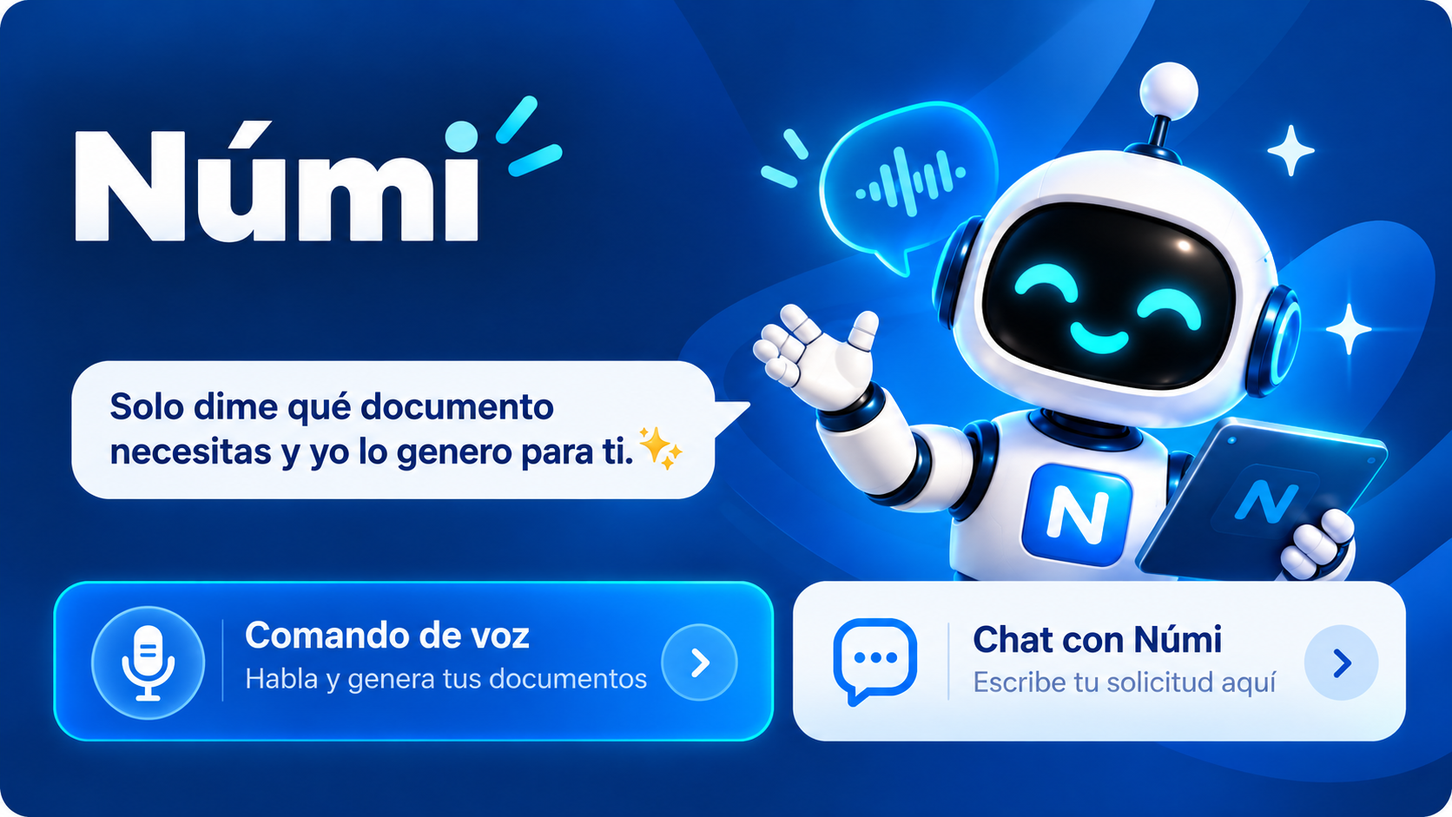
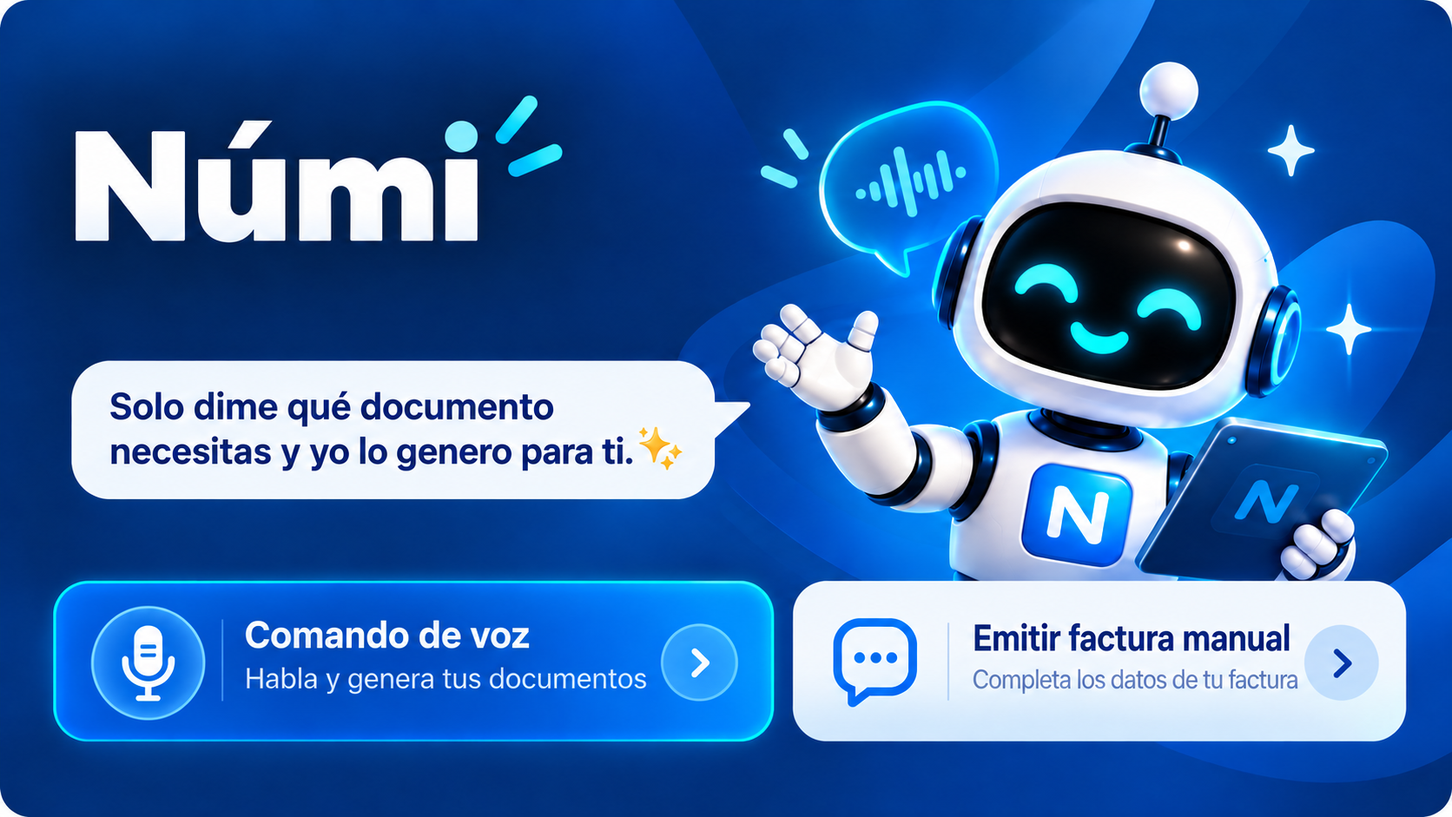
cambios Finales baby

diff --git a/src/components/bot/EfactBotScreen.tsx b/src/components/bot/EfactBotScreen.tsx
@@ -30,7 +30,7 @@ export const botVoiceRecognitionAvailable = voiceRecognitionAvailable;
 const speechContext = [
   'Númi', 'e-fact', 'Jordy Prado', 'Jordy', 'Prado', 'factura', 'facturación', 'RUC', 'cédula', 'identificación',
   'cliente', 'proveedor', 'producto', 'servicio', 'servicios prestados', 'cantidad', 'precio', 'descuento', 'IVA', 'subtotal', 'impuesto', 'total',
-  'retención', 'guía de remisión', 'nota de crédito', 'nota de débito', 'emitir', 'anular', 'cancelar', 'confirmar', 'confirmado',
+  'retención', 'guía de remisión', 'nota de crédito', 'nota de débito', 'emitir', 'anular', 'cancelar', 'confirmar', 'confirmo', 'confirmado', 'autorizo', 'acepto', 'apruebo', 'adelante', 'procede',
   'contado', 'crédito', 'efectivo', 'transferencia', 'tarjeta', 'débito', 'cheque', 'banco', 'plazo', 'vencimiento',
   'modificar IVA', 'cambiar IVA', 'IVA cero', 'IVA quince', 'quitar IVA', 'aplicar IVA',
   'modificar precio', 'cambiar precio', 'subir precio', 'bajar precio', 'precio unitario',
@@ -290,23 +290,6 @@ export function EfactBotScreen({
   const abortBotRequest = () => {
     botRequestAbortRef.current?.abort();
     botRequestAbortRef.current = null;
-  };
-
-  const cancelPendingRequest = () => {
-    requestGenerationRef.current += 1;
-    queuedRequestsRef.current = [];
-    abortBotRequest();
-    sendingRef.current = false;
-    setSending(false);
-    setThinkingRequest('');
-    setRetryRequest(null);
-    setError('');
-    clearVoiceTimers();
-    disableHandsFreeState();
-    void stopBotSpeech();
-    if (voiceRecognitionStarted.current) ExpoSpeechRecognitionModule?.abort();
-    setListening(false);
-    transitionVoice('idle', null);
   };
 
   const createMessageId = (role: BotMessage['role']) => `${role}-${Date.now()}-${messageSequenceRef.current += 1}`;
@@ -571,7 +554,7 @@ export function EfactBotScreen({
             transitionVoice('processing', 'processing');
             void send('cancelar', 'voz');
           } else {
-            const voiceMessage = 'Para ejecutar esta operación di “confirmado” o pulsa el botón Confirmar.';
+            const voiceMessage = 'Para ejecutar esta operación di “confirmo”, “sí”, “dale” o “autorizo”.';
             setVoiceResponse(voiceMessage);
             transitionVoice('awaitingConfirmation', 'response');
             void speakCurrentBotText(voiceMessage);
@@ -796,7 +779,7 @@ export function EfactBotScreen({
       voicePermissionGrantedRef.current = true;
       if (!voiceHolding.current) {
         voiceShouldSubmit.current = false;
-        transitionVoice('idle', null);
+        transitionVoice('idle', handsFreeEnabledRef.current ? 'response' : null);
         return;
       }
       if (!ExpoSpeechRecognitionModule.isRecognitionAvailable()) {
@@ -819,7 +802,7 @@ export function EfactBotScreen({
       }
       if (!voiceHolding.current) {
         voiceShouldSubmit.current = false;
-        transitionVoice('idle', null);
+        transitionVoice('idle', handsFreeEnabledRef.current ? 'response' : null);
         return;
       }
       // Marcarla antes de llamar al módulo evita que una suelta durante la
@@ -867,11 +850,6 @@ export function EfactBotScreen({
       { label: 'Validar documento', command: '¿Cómo valido una firma electrónica?', icon: 'file-check-outline' as const },
       { label: 'Nueva solicitud', command: '¿Qué necesito para solicitar una firma electrónica?', icon: 'file-plus-outline' as const },
     ]
-    : Boolean(pendingOperation || (requiresConfirmation && invoiceState === 'EsperandoConfirmacion'))
-    ? [
-      { label: pendingOperation ? 'Confirmar operación' : 'Emitir factura', command: pendingOperation ? 'confirmar' : 'emitir', icon: 'check' as const },
-      { label: pendingOperation ? 'Cancelar operación' : 'Cancelar emisión', command: 'cancelar', icon: 'close' as const },
-    ]
     : invoiceDraft?.items?.length
       ? [
         { label: 'Agregar producto', command: 'Agrega otro producto', icon: 'plus' as const },
@@ -889,7 +867,6 @@ export function EfactBotScreen({
           { label: 'Consultar facturas', command: 'Muéstrame mis facturas', icon: 'file-document-outline' as const },
           { label: 'Ver cartera', command: 'Muéstrame mis cuentas por cobrar', icon: 'cash-multiple' as const },
         ];
-
   const stopVoiceInput = () => {
     clearVoiceTimers();
     voiceHolding.current = false;
@@ -952,6 +929,7 @@ export function EfactBotScreen({
   };
 
   const cancelVoiceInput = () => {
+    if (sendingRef.current) return;
     requestGenerationRef.current += 1;
     abortBotRequest();
     sendingRef.current = false;
@@ -1065,7 +1043,7 @@ export function EfactBotScreen({
           <Pressable accessibilityRole="button" accessibilityLabel={speechMuted ? 'Activar lectura en voz alta' : 'Silenciar lectura en voz alta'} onPress={toggleSpeechMuted} hitSlop={8} style={styles.botHeaderActionButton}>
             <MaterialCommunityIcons name={speechMuted ? 'volume-off' : 'volume-high'} size={19} color="#FFFFFF" />
           </Pressable>
-          <Pressable accessibilityRole="button" accessibilityLabel="Volver al inicio" onPress={() => onNavigate?.('/dashboard')} hitSlop={8} style={styles.botHeaderActionButton}>
+          <Pressable accessibilityRole="button" accessibilityLabel="Volver al inicio" onPress={() => onNavigate?.('/dashboard')} hitSlop={8} disabled={sending} style={[styles.botHeaderActionButton, sending && styles.botHeaderActionDisabled]}>
              <MaterialCommunityIcons name="home-outline" size={19} color="#FFFFFF" />
           </Pressable>
         </View>
@@ -1150,9 +1128,6 @@ export function EfactBotScreen({
             <Image source={require('../../../assets/numi-chat-avatar.jpg')} style={styles.botMessageAvatar} />
             <NumiThinkingIndicator request={thinkingRequest} />
           </View>
-          <Pressable accessibilityRole="button" accessibilityLabel="Cancelar solicitud" onPress={cancelPendingRequest}>
-            <Text style={styles.botRetryText}>Cancelar</Text>
-          </Pressable>
         </View>
       ) : null}
       {voiceTranscript && !voiceOverlayState ? <View style={styles.botVoiceTranscript}><MaterialCommunityIcons name="waveform" size={16} color="#0878C9" /><Text style={styles.botVoiceTranscriptText}>{voiceTranscript}</Text></View> : null}
@@ -1270,13 +1245,15 @@ function VoiceInteractionOverlay({ state, transcript, response, draft, missing, 
     return () => animation.stop();
   }, [pulse, reduceMotion, state]);
 
-  const title = state === 'listening' ? 'Númi está escuchando' : state === 'review' ? 'Revisa lo que entendí' : state === 'processing' ? 'Procesando comando' : confirmationExpiryInvalid ? 'Confirmación no disponible' : confirmationExpired ? 'Confirmación vencida' : needsConfirmation ? 'Revisa antes de continuar' : 'Númi respondió';
-  const subtitle = state === 'listening' ? 'Mantén presionado el micrófono; suéltalo para enviar.' : state === 'review' ? 'Corrige cualquier palabra antes de enviarla.' : state === 'processing' ? 'Estoy revisando tus datos y preparando el siguiente paso.' : confirmationExpiryInvalid ? 'La operación no tiene una vigencia válida. Solicítala nuevamente.' : confirmationExpired ? 'La operación no se ejecutó. Solicítala nuevamente para generar una nueva confirmación.' : needsConfirmation ? 'Mantén presionado el micrófono para confirmar.' : handsFreeEnabled ? 'Mantén presionado el micrófono para hablar y suéltalo para enviar.' : 'Esta respuesta también se guardó en el chat.';
+  const invoiceEmissionProcessing = state === 'processing' && (Boolean(pendingOperation) || requiresConfirmation || invoiceState === 'EsperandoConfirmacion');
+  const emissionDocument = getEmissionDocumentLabel(pendingOperation?.tipo);
+  const title = state === 'listening' ? 'Númi está escuchando' : state === 'review' ? 'Revisa lo que entendí' : state === 'processing' ? (invoiceEmissionProcessing ? `Emitiendo ${emissionDocument}` : 'Procesando comando') : confirmationExpiryInvalid ? 'Confirmación no disponible' : confirmationExpired ? 'Confirmación vencida' : needsConfirmation ? 'Revisa antes de continuar' : 'Númi respondió';
+  const subtitle = state === 'listening' ? 'Mantén presionado el micrófono; suéltalo para enviar.' : state === 'review' ? 'Corrige cualquier palabra antes de enviarla.' : state === 'processing' ? (invoiceEmissionProcessing ? `Espera mientras guardo ${emissionDocument} y la envío al SRI. No cierres esta ventana.` : 'Estoy revisando tus datos y preparando el siguiente paso.') : confirmationExpiryInvalid ? 'La operación no tiene una vigencia válida. Solicítala nuevamente.' : confirmationExpired ? 'La operación no se ejecutó. Solicítala nuevamente para generar una nueva confirmación.' : needsConfirmation ? 'Mantén presionado el micrófono para confirmar.' : handsFreeEnabled ? 'Mantén presionado el micrófono para hablar y suéltalo para enviar.' : 'Esta respuesta también se guardó en el chat.';
   const icon = state === 'listening' ? 'microphone' : state === 'review' ? 'text-box-check-outline' : state === 'processing' ? 'loading' : confirmationBlocked ? 'alert-circle-outline' : needsConfirmation ? 'shield-check-outline' : 'check-circle-outline';
 
   return (
     <View style={styles.botVoiceOverlayLayer} pointerEvents="box-none">
-      <Pressable accessibilityRole="button" accessibilityLabel="Cerrar respuesta de Númi" style={styles.botVoiceOverlayBackdrop} onPress={onCancel} />
+      <Pressable accessibilityRole="button" accessibilityLabel="Cerrar respuesta de Númi" style={styles.botVoiceOverlayBackdrop} onPress={() => undefined} />
       <KeyboardAvoidingView behavior={Platform.OS === 'ios' ? 'padding' : 'height'} keyboardVerticalOffset={Platform.OS === 'ios' ? 8 : 0} style={styles.botVoiceOverlayKeyboardAvoider}>
       <View style={[styles.botVoiceOverlayCard, { maxHeight: Math.min(viewportHeight * 0.58, 520), width: Math.max(0, Math.min(viewportWidth - 24, 390)) }]}>
        <View style={styles.botVoiceOverlayHandle} />
@@ -1287,6 +1264,9 @@ function VoiceInteractionOverlay({ state, transcript, response, draft, missing, 
             <Text style={styles.botVoiceOverlayTitle}>{title}</Text>
             <Text style={styles.botVoiceOverlaySubtitle}>{subtitle}</Text>
           </View>
+          <Pressable accessibilityRole="button" accessibilityLabel="Cerrar respuesta de Númi" hitSlop={8} disabled={state === 'processing'} onPress={onCancel} style={{ alignItems: 'center', justifyContent: 'center', padding: 2 }}>
+            <MaterialCommunityIcons name="close" size={20} color={state === 'processing' ? '#B8C7D2' : '#5C748A'} />
+          </Pressable>
         </View>
         {handsFreeEnabled && state !== 'processing' ? (
           <Pressable accessibilityRole="button" accessibilityLabel={needsConfirmation ? 'Mantén presionado el micrófono para confirmar' : 'Mantén presionado el micrófono para hablar y suelta para enviar'} style={{ alignSelf: 'center' }} onPressIn={needsConfirmation ? onStartConfirmationVoice : onStartVoice} onPressOut={onStopVoice}>
@@ -1315,32 +1295,20 @@ function VoiceInteractionOverlay({ state, transcript, response, draft, missing, 
         {state === 'processing' ? (
           <View style={styles.botVoiceOverlayProcessingStatus}>
             <ActivityIndicator size="small" color="#0878C9" />
-            <Text style={styles.botVoiceOverlayProcessingText}>Procesando tu orden…</Text>
+            <Text style={styles.botVoiceOverlayProcessingText}>{invoiceEmissionProcessing ? `Espera: guardando ${emissionDocument} y enviándola al SRI…` : 'Procesando tu orden…'}</Text>
           </View>
         ) : null}
         {state === 'response' ? <Text style={styles.botVoiceOverlayResponse}>{response}</Text> : null}
         {pendingOperation && state === 'response' && !showWorkflow ? <View style={styles.botVoiceOverlayOperation}><Text style={styles.botVoiceOverlayOperationLabel}>Operación pendiente</Text><Text style={styles.botVoiceOverlayOperationText}>{pendingOperation.resumen || 'Operación que requiere confirmación'}</Text></View> : null}
-        {showWorkflow && state === 'response' ? <BotInvoiceWorkflowCard draft={draft} missing={missing} requiresConfirmation={requiresConfirmation} state={invoiceState} progress={progress} configurationRoutes={configurationRoutes} reduceMotion={reduceMotion} stale={stale} selectionOptions={selectionOptions} pendingOperation={pendingOperation} sending={false} showActions={false} onNavigate={onNavigate} onCommand={onCommand} /> : null}
+        {showWorkflow && state === 'response' ? <BotInvoiceWorkflowCard draft={draft} missing={missing} requiresConfirmation={requiresConfirmation} state={invoiceState} progress={progress} configurationRoutes={configurationRoutes} reduceMotion={reduceMotion} stale={stale} selectionOptions={selectionOptions} pendingOperation={pendingOperation} sending={false} onNavigate={onNavigate} onCommand={onCommand} /> : null}
         {state === 'review' ? (
           <>
             <View style={styles.botVoiceOverlayActions}>
-              <Pressable style={styles.botVoiceOverlayCancelButton} onPress={onCancel}><Text style={styles.botVoiceOverlayCancelText}>Cancelar</Text></Pressable>
               <Pressable style={[styles.botVoiceOverlayConfirmButton, !transcript.trim() && styles.botVoiceOverlayConfirmButtonDisabled]} onPress={onReviewSend} disabled={!transcript.trim()}><MaterialCommunityIcons name="send" size={16} color="#FFFFFF" /><Text style={styles.botVoiceOverlayConfirmText}>Enviar</Text></Pressable>
             </View>
             <Pressable style={styles.botVoiceOverlayCloseButton} onPress={onReviewEdit}><Text style={styles.botVoiceOverlayCloseText}>Editar en el chat</Text></Pressable>
           </>
-        ) : needsConfirmation ? (
-          <>
-            <View style={styles.botVoiceOverlayActions}>
-              <Pressable style={styles.botVoiceOverlayCancelButton} onPress={() => onCommand('cancelar')}><Text style={styles.botVoiceOverlayCancelText}>Cancelar</Text></Pressable>
-            </View>
-            <Pressable style={styles.botVoiceOverlayConfirmButtonFull} onPress={() => onCommand(pendingOperation ? 'confirmar' : 'emitir')}><MaterialCommunityIcons name="check" size={17} color="#FFFFFF" /><Text style={styles.botVoiceOverlayConfirmText}>Confirmar con botón</Text></Pressable>
-          </>
-        ) : state === 'response' ? (
-          <View style={styles.botVoiceOverlayActions}>
-            <Pressable style={styles.botVoiceOverlayCloseButton} onPress={onCancel}><Text style={styles.botVoiceOverlayCloseText}>Cerrar</Text></Pressable>
-          </View>
-        ) : <Pressable style={styles.botVoiceOverlayCloseButton} onPress={onCancel}><Text style={styles.botVoiceOverlayCloseText}>Cancelar</Text></Pressable>}
+        ) : null}
        </ScrollView>
       </View>
       </KeyboardAvoidingView>
@@ -1348,7 +1316,7 @@ function VoiceInteractionOverlay({ state, transcript, response, draft, missing, 
   );
 }
 
-function BotInvoiceWorkflowCard({ draft, missing, requiresConfirmation, state, progress, configurationRoutes, reduceMotion, stale, selectionOptions, pendingOperation, sending, showActions = true, onNavigate, onCommand }: {
+function BotInvoiceWorkflowCard({ draft, missing, requiresConfirmation, state, progress, configurationRoutes, reduceMotion, stale, selectionOptions, pendingOperation, sending, onNavigate, onCommand }: {
   draft: BotFacturaDraft | null;
   missing: string[];
   requiresConfirmation: boolean;
@@ -1360,7 +1328,6 @@ function BotInvoiceWorkflowCard({ draft, missing, requiresConfirmation, state, p
   selectionOptions: BotSelectionOption[];
   pendingOperation: { tipo?: string; resumen?: string; expiraEn?: string | null } | null;
   sending: boolean;
-  showActions?: boolean;
   onNavigate?: (route: string) => void;
   onCommand: (command: string) => void;
 }) {
@@ -1385,8 +1352,8 @@ function BotInvoiceWorkflowCard({ draft, missing, requiresConfirmation, state, p
     { id: 'pago', label: 'Pago', status: hasPayment ? 'completed' : undefined },
     { id: 'confirmacion', label: 'Confirmar', status: isCompleted ? 'completed' : undefined },
   ];
-  const hasDraftWorkflow = Boolean(draft?.cliente || draft?.items?.length || hasCalculatedValues || actualMissing.length || needsConfirmation || pendingOperation);
-  const workflowSteps = hasDraftWorkflow ? fallbackSteps : progress;
+  const workflowDocument = getEmissionDocumentLabel(pendingOperation?.tipo, progress);
+  const workflowSteps = progress.length > 0 ? progress : fallbackSteps;
   const currentStep = Math.max(0, workflowSteps.findIndex((step) => step.status !== 'completed'));
   const hasWorkflow = isCompleted || isCancelled || operationBlocked || actualMissing.length > 0 || needsConfirmation || selectionOptions.length > 0 || configurationRoutes.length > 0 || progress.length > 0 || Boolean(draft?.cliente || draft?.items?.length) || hasCalculatedValues || Boolean(pendingOperation);
   const workflowTone = isCompleted
@@ -1442,7 +1409,7 @@ function BotInvoiceWorkflowCard({ draft, missing, requiresConfirmation, state, p
         </View>
       </View>
       {workflowSteps.length > 0 ? (
-        <View style={styles.botWorkflowProgress} accessibilityLabel="Progreso de la factura">
+        <View style={styles.botWorkflowProgress} accessibilityLabel={`Progreso de ${workflowDocument}`}>
           {workflowSteps.map((step, index) => {
             const complete = step.status === 'completed' || (isCompleted && index === workflowSteps.length - 1);
             return (
@@ -1510,13 +1477,7 @@ function BotInvoiceWorkflowCard({ draft, missing, requiresConfirmation, state, p
         </View>
       ) : null}
       {operationBlocked ? <Text style={styles.botWorkflowExpiredHint}>Solicita nuevamente la operación para generar una nueva confirmación.</Text> : null}
-      {showActions && needsConfirmation && !stale ? (
-        <View style={styles.botWorkflowActions}>
-          <Pressable accessibilityRole="button" accessibilityLabel={pendingOperation ? 'Cancelar operación' : 'Cancelar emisión'} disabled={sending} style={[styles.botWorkflowCancelButton, sending && styles.botWorkflowActionDisabled]} onPress={() => onCommand('cancelar')}><Text style={styles.botWorkflowCancelText}>{pendingOperation ? 'Cancelar operación' : 'Cancelar emisión'}</Text></Pressable>
-          <Pressable accessibilityRole="button" accessibilityLabel={pendingOperation ? 'Confirmar operación' : 'Emitir factura'} accessibilityState={{ disabled: sending || operationBlocked }} disabled={sending || operationBlocked} style={[styles.botWorkflowConfirmButton, styles.botWorkflowConfirmButtonProminent, (sending || operationBlocked) && styles.botWorkflowActionDisabled]} onPress={() => onCommand(pendingOperation ? 'confirmar' : 'emitir')}><MaterialCommunityIcons name="check" size={18} color="#FFFFFF" /><Text style={styles.botWorkflowConfirmText}>{pendingOperation && operationBlocked ? 'Solicita nueva confirmación' : pendingOperation ? 'Confirmar operación' : 'Emitir factura'}</Text></Pressable>
-        </View>
-      ) : null}
-      {state === 'FacturaEmitida' ? <Text style={styles.botWorkflowSuccess}>Factura emitida correctamente.</Text> : null}
+      {state === 'FacturaEmitida' ? <Text style={styles.botWorkflowSuccess}>{workflowDocument.charAt(0).toUpperCase() + workflowDocument.slice(1)} emitida correctamente.</Text> : null}
       {isCancelled ? <Text style={styles.botWorkflowCancelled}>La operación quedó cancelada.</Text> : null}
       {isExpired ? <Text style={styles.botWorkflowExpiredHint}>La confirmación anterior ya no es válida; vuelve a solicitar la operación.</Text> : null}
     </Animated.View>
@@ -1636,6 +1597,16 @@ function normalizeVoiceCommand(value: string) {
   return value.normalize('NFD').replace(/[\u0300-\u036f]/g, '').toLowerCase().trim();
 }
 
+function getEmissionDocumentLabel(tipo?: string | null, progress: BotProgressStep[] = []) {
+  const normalized = normalizeVoiceCommand(`${tipo ?? ''} ${progress.map((step) => `${step.id} ${step.label}`).join(' ')}`);
+  if (normalized.includes('notacredito') || normalized.includes('nota de credito')) return 'la nota de crédito';
+  if (normalized.includes('notadebito') || normalized.includes('nota de debito')) return 'la nota de débito';
+  if (normalized.includes('liquidacion')) return 'la liquidación de compra';
+  if (normalized.includes('retencion')) return 'la retención';
+  if (normalized.includes('guia')) return 'la guía de remisión';
+  return 'la factura';
+}
+
 function isLikelyAmbientVoice(value: string) {
   return /^(ah+|eh+|mmm+|mm+|ok(?:ay)?|hola|gracias|si)$/i.test(normalizeVoiceCommand(value));
 }
@@ -1710,7 +1681,7 @@ function buildSpeechResponse(answer: string, options: BotSelectionOption[] = [])
 }
 
 function isExplicitConfirmation(value: string) {
-  return /\b(si|confirmar|confirmado|confirmo|dale|correcto|emitir|emite)\b/.test(normalizeVoiceCommand(value));
+  return /\b(si|confirmar|confirmo|confirmado|confirmada|confirmacion|dale|correcto|correcta|exacto|exacta|de acuerdo|ok|okay|listo|lista|adelante|procede|proceda|autorizo|autorizar|acepto|aceptar|apruebo|aprobar|hazlo|continuar|continua|emitir|emite|enviar|envia)\b/.test(normalizeVoiceCommand(value));
 }
 
 function sanitizeSpeechText(value: string) {

diff --git a/src/features/workspace/BusinessHome.tsx b/src/features/workspace/BusinessHome.tsx
@@ -184,6 +184,7 @@ export function BusinessHome({ currentUser, incomingPdfUri, onIncomingPdfHandled
   const [productoEstadoFiltro, setProductoEstadoFiltro] = useState<'activos' | 'inactivos' | 'todos'>('activos');
   const debouncedSearch = useDebouncedValue(search, 350);
   const [reloadKey, setReloadKey] = useState(0);
+  const appStateRef = useRef(AppState.currentState);
   const [adminItems, setAdminItems] = useState<AdminMobileItem[]>([]);
   const [adminTabByView, setAdminTabByView] = useState<Record<string, string>>({});
   const [operationalItems, setOperationalItems] = useState<OperationalMobileItem[]>([]);
@@ -505,7 +506,9 @@ export function BusinessHome({ currentUser, incomingPdfUri, onIncomingPdfHandled
 
   useEffect(() => {
     const subscription = AppState.addEventListener('change', (state) => {
-      if (state === 'active') {
+      const previousState = appStateRef.current;
+      appStateRef.current = state;
+      if (state === 'active' && previousState === 'background') {
         setReloadKey((value) => value + 1);
       }
     });
@@ -3217,11 +3220,6 @@ export function BusinessHome({ currentUser, incomingPdfUri, onIncomingPdfHandled
       setDirectoryMessage({ type: 'info', text: 'Esta factura ya fue autorizada por el SRI y no se puede volver a emitir.' });
       return;
     }
-    const prerequisitesError = await validateEmissionPrerequisites();
-    if (prerequisitesError) {
-      setDirectoryMessage({ type: 'error', text: prerequisitesError });
-      return;
-    }
     try {
       const result = await reintentarFacturaSri(catalogUserId, factura.codfactura);
       const estado = normalizeSriState(result.estado);
@@ -3501,6 +3499,9 @@ export function BusinessHome({ currentUser, incomingPdfUri, onIncomingPdfHandled
         onPress: async () => {
           try {
             await anularNotaCredito(catalogUserId, nota.codNotaCredito);
+            setNotasCreditoList((current) => current.map((item) => item.codNotaCredito === nota.codNotaCredito
+              ? { ...item, estado: false, estadoSri: 'ANULADO' }
+              : item));
             setDirectoryMessage({ type: 'success', text: 'Nota de credito anulada correctamente.' });
             setReloadKey((value) => value + 1);
           } catch (error) {

diff --git a/src/components/documents/DocumentHistoryScreens.tsx b/src/components/documents/DocumentHistoryScreens.tsx
@@ -123,8 +123,9 @@ export function MisNotasCreditoMobileScreen({
       <View style={styles.listStack}>
         {visibleNotas.map((nota, index) => {
           const notaKey = listItemKey('mis-notas-credito', [nota.codNotaCredito, nota.numeroNota, nota.facturaModificada], index);
-          const statusLabel = nota.estadoSri ?? (nota.autorizado ? 'AUTORIZADO' : 'NO AUTORIZADO');
-          const isAuthorized = nota.autorizado || String(nota.estadoSri ?? '').toUpperCase().includes('AUTORIZ');
+          const isAnulada = nota.estado === false || String(nota.estadoSri ?? '').toUpperCase().includes('ANUL');
+          const statusLabel = isAnulada ? 'ANULADA' : nota.estadoSri ?? (nota.autorizado ? 'AUTORIZADO' : 'NO AUTORIZADO');
+          const isAuthorized = !isAnulada && (nota.autorizado || String(nota.estadoSri ?? '').toUpperCase().includes('AUTORIZ'));
           return (
             <View key={notaKey} style={styles.invoiceHistoryCard}>
               <View style={styles.invoiceHistoryCardHeader}>
@@ -186,8 +187,8 @@ export function MisNotasCreditoMobileScreen({
                   { label: 'Descargar XML', icon: 'file-code-outline', tone: 'success', onPress: () => onXml(nota) },
                   { label: 'Descargar PDF A4', icon: 'file-pdf-box', tone: 'danger', onPress: () => onPdf(nota, true) },
                   { label: 'Reenviar correo', icon: 'email-outline', tone: 'warning', onPress: () => onEmail(nota) },
-                  ...(!isAuthorized ? [{ label: 'Emitir SRI', icon: 'send-check-outline', tone: 'primary' as const, onPress: () => onEmitir(nota) }] : []),
-                  { label: 'Anular', icon: 'trash-can-outline', tone: 'danger', onPress: () => onAnular(nota) },
+                  ...(!isAuthorized && !isAnulada ? [{ label: 'Emitir SRI', icon: 'send-check-outline', tone: 'primary' as const, onPress: () => onEmitir(nota) }] : []),
+                  ...(!isAnulada ? [{ label: 'Anular', icon: 'trash-can-outline', tone: 'danger' as const, onPress: () => onAnular(nota) }] : []),
                 ]} />
               </View>
             </View>

diff --git a/src/services/notasCreditoMobileService.ts b/src/services/notasCreditoMobileService.ts
@@ -281,10 +281,13 @@ function toNotaCreditoListItem(row: ApiRow): NotaCreditoListItem {
   const numeroCompleto = text(pickValue(row, ['numeroCompleto', 'NumeroCompleto', 'numeroDocumento', 'NumeroDocumento', 'documento', 'Documento']));
   const autorizadoRaw = pickValue(row, ['autorizado', 'Autorizado', 'estaAutorizado', 'EstaAutorizado']);
   const autorizado = booleanValue(autorizadoRaw);
-  const estadoGenerico = pickValue(row, ['estado', 'Estado']);
-  const estadoSri = text(pickValue(row, ['estadoSri', 'EstadoSri', 'estadoSRI', 'EstadoSRI', 'estadoAutorizacion', 'EstadoAutorizacion']))
-    || (typeof estadoGenerico === 'string' && !['true', 'false', '1', '0'].includes(estadoGenerico.trim().toLowerCase()) ? estadoGenerico : '')
-    || (autorizado === true ? 'AUTORIZADO' : 'PENDIENTE');
+  const estadoGenerico = pickValue(row, ['estado', 'Estado', 'activo', 'Activo']);
+  const estado = booleanValue(estadoGenerico);
+  const estadoSri = estado === false
+    ? 'ANULADO'
+    : text(pickValue(row, ['estadoSri', 'EstadoSri', 'estadoSRI', 'EstadoSRI', 'estadoAutorizacion', 'EstadoAutorizacion']))
+      || (typeof estadoGenerico === 'string' && !['true', 'false', '1', '0'].includes(estadoGenerico.trim().toLowerCase()) ? estadoGenerico : '')
+      || (autorizado === true ? 'AUTORIZADO' : 'PENDIENTE');
 
   return {
     codNotaCredito: numberValue(pickValue(row, ['codNotaCredito', 'CodNotaCredito', 'codnotacredito', 'codNota', 'CodNota', 'secNotaCredito', 'SecNotaCredito', 'sec', 'Sec', 'idNotaCredito', 'IdNotaCredito', 'id', 'Id'])) ?? 0,
@@ -316,7 +319,7 @@ function toNotaCreditoListItem(row: ApiRow): NotaCreditoListItem {
     fechaVencimientoDocumento: text(pickValue(row, ['fechaVencimientoDocumento', 'FechaVencimientoDocumento'])) || null,
     saldoPendienteDocumento: numberValue(pickValue(row, ['saldoPendienteDocumento', 'SaldoPendienteDocumento'])),
     xmlUrl: text(pickValue(row, ['xmlUrl', 'XmlUrl'])) || null,
-    estado: booleanValue(pickValue(row, ['estado', 'Estado', 'activo', 'Activo'])),
+    estado,
   };
 }
 

diff --git a/src/components/bot/NumiThinkingIndicator.tsx b/src/components/bot/NumiThinkingIndicator.tsx
@@ -4,6 +4,8 @@ import { MaterialCommunityIcons } from '@expo/vector-icons';
 
 function getThinkingDetail(request: string) {
   const normalized = request.toLowerCase();
+  const document = normalized.includes('nota de crédito') || normalized.includes('nota de credito') || normalized === 'nc' || normalized.includes(' nc ') ? 'la nota de crédito' : normalized.includes('nota de débito') || normalized.includes('nota de debito') || normalized === 'nd' || normalized.includes(' nd ') ? 'la nota de débito' : 'la factura';
+  if (normalized.includes('confirm') || normalized.includes('emitir') || normalized.includes('emite')) return [`Guardando ${document} de forma segura.`, `Enviando ${document} al SRI.`, 'Confirmando el resultado para evitar reenvíos.'];
   if (normalized.includes('cliente') || normalized.includes('proveedor')) return ['Consultando tus clientes y evitando pedir datos que ya existen.', 'Validando la información encontrada.', 'Preparando una respuesta clara.'];
   if (normalized.includes('producto') || normalized.includes('servicio')) return ['Consultando el catálogo y usando sus precios e IVA reales.', 'Validando precios e impuestos.', 'Preparando una respuesta clara.'];
   if (normalized.includes('factura') || normalized.includes('vender') || normalized.includes('venta')) return ['Consultando cliente, productos y valores de la factura.', 'Revisando los datos de la operación.', 'Preparando el siguiente paso.'];

diff --git a/src/styles/appStyles.ts b/src/styles/appStyles.ts
@@ -8240,7 +8240,7 @@ export const styles = StyleSheet.create({
   numiThinkingStepTextActive: { color: '#263A4F', fontWeight: '900' },
   botVoiceTranscript: { alignItems: 'center', backgroundColor: '#EAF5FC', borderTopColor: '#DCEAF3', borderTopWidth: 1, flexDirection: 'row', gap: 7, paddingHorizontal: 14, paddingVertical: 8 },
   botVoiceTranscriptText: { color: '#315A7A', flex: 1, fontSize: 12, fontWeight: '700' },
-  botVoiceOverlayLayer: { alignItems: 'center', bottom: 0, justifyContent: 'flex-end', left: 0, paddingBottom: 12, paddingHorizontal: 12, position: 'absolute', right: 0, top: 0, zIndex: 20 },
+  botVoiceOverlayLayer: { alignItems: 'center', bottom: 0, justifyContent: 'flex-end', left: 0, paddingBottom: 72, paddingHorizontal: 12, position: 'absolute', right: 0, top: 0, zIndex: 20 },
   botVoiceOnlyRoot: { bottom: 0, left: 0, position: 'absolute', right: 0, top: 0, zIndex: 25 },
   botVoiceOverlayBackdrop: { backgroundColor: 'rgba(3, 31, 58, 0.48)', bottom: 0, left: 0, position: 'absolute', right: 0, top: 0 },
   botVoiceOverlayKeyboardAvoider: { alignItems: 'center', flex: 1, justifyContent: 'flex-end', width: '100%' },

diff --git a/src/components/dashboard/DashboardHomeScreen.tsx b/src/components/dashboard/DashboardHomeScreen.tsx
@@ -70,7 +70,7 @@ export function DashboardHomeScreen({
       <View style={styles.dashboardNumiPanel} onLayout={({ nativeEvent }) => setBannerWidth(nativeEvent.layout.width)}>
         <Image source={require('../../../assets/numi-dashboard-banner.png')} style={[styles.dashboardNumiBanner, { height: bannerHeight }]} resizeMode="contain" />
         <Pressable accessibilityRole="button" accessibilityLabel="Generar documentos por voz con Númi" style={[styles.dashboardNumiBannerAction, styles.dashboardNumiBannerVoiceAction]} onPress={onOpenVoice} />
-        <Pressable accessibilityRole="button" accessibilityLabel="Abrir chat con Númi" style={[styles.dashboardNumiBannerAction, styles.dashboardNumiBannerChatAction]} onPress={() => onOpenView('bot')} />
+        <Pressable accessibilityRole="button" accessibilityLabel="Emitir factura manual" style={[styles.dashboardNumiBannerAction, styles.dashboardNumiBannerChatAction]} onPress={() => onOpenView('nueva-factura')} />
       </View>
 
       <View style={styles.dashboardSectionHeader}>

diff --git a/src/components/auth/BusinessHomeLayout.tsx b/src/components/auth/BusinessHomeLayout.tsx
@@ -353,7 +353,7 @@ export function BusinessHomeLayout({ context }: { context: BusinessHomeLayoutCon
         {!loadingMenus && activeView === 'e-rubrica' ? (
           <ERubricaMobileScreen
             data={erubricaData}
-            puedeFirmarSinPlan={isSuperAdmin(currentUser)}
+            puedeFirmarSinPlan={isSuperAdmin(currentUser) || hasDocumentsAvailable}
             initialPdf={erubricaInitialPdf}
             requestedTab={erubricaTabRequest}
             loading={loadingErubrica}
